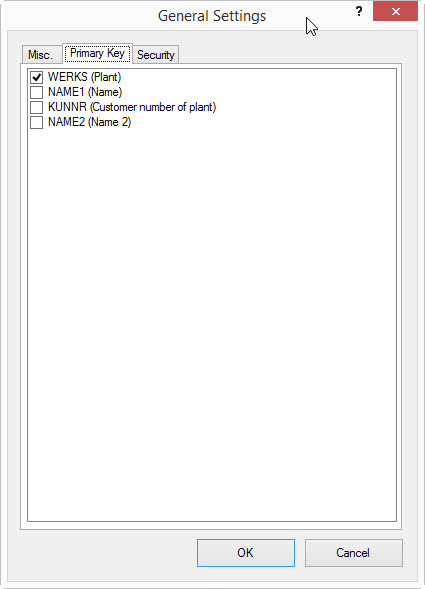
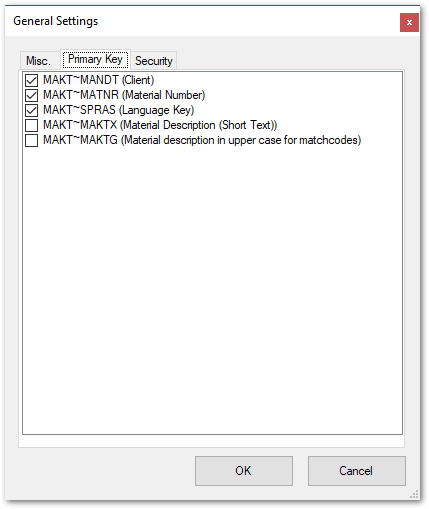
general settings

Changed region(s): [[0.0, 0.0, 1.0, 1.0]]

diff --git a/_includes/_content/en/xu-specific/advanced-techniques/general-settings.md b/_includes/_content/en/xu-specific/advanced-techniques/general-settings.md
@@ -1,24 +1,50 @@
-Each extraction dialog has the link *General Settings*, which provides general settings that are independent of the extraction type.
+General Settings are independent of the extraction type.
+### To open General Settings
+1. In the main window of the Designer, double-click an extraction.<br>
+The window "Define data source for [...]" opens.<br>
+Example:
+![General-Settings](/img/content/table/table_main-window_2.png){:class="img-responsive"}
 
-**Misc. tab**
+2. Within the opened window, click **[General Settings]**.<br>
+The window "General Settings" opens.
+
+
+### Misc. tab
+The miscellaneous tab consists of two subsections:
+- Options
+- Keywords
 
 ![General-Settings](/img/content/General-Settings.png){:class="img-responsive"}
 
-**Disable Buffer**<br>
-This setting disables the extractions buffering and overwrites the server settings BufferExtractionCount  and BufferLifespanMinutes.
+#### Options
+**Cache results (1)**<br>
 
-If the data is in very short time intervals (see server setting BufferLifespanMinutes) is requested, the data is delivered from the buffer. This increases the performance and limits the impact on the SAP system. If this behavior is not desired (for example, because the data must be always 100% up to date), the buffer must be explicitly turned off.
+{:.box-tip}
+**Note:** option only available in [pull destinations](../xu-destinations#pull-and-push-destinations) (e.g., PBI, Qlik etc.).
 
-With DeltaQ extractions buffering can only be used with update mode 'F'.
+Pull destinations often pull the data from SAP for several times. To decrease the SAP server load, you can select the **Cache results**, this way the pull destination pulls the data from cache and not from the SAP.
+This increases the performance and limits the impact on the SAP system. If this behavior is not desired (for example, because the data must be always 100% up to date), the cache option must be explicitly turned off.
 
-**Preview Mode**<br>
-If it is activated, only a small portion of data is extracted from SAP or (if that's not possible) sample data is generated instead.
+**Preview Mode (2)**<br>
+If preview mode is activated, only a small portion of data is extracted from SAP or, if extraction is not possible, sample data is generated instead.
 
-**Keywords**<br>
-You can assign one or more keywords (Tags) to an extraction. Within the designer you can use these keywords as a filter for the extraction.
+#### Keywords<br>
+One or more keywords (Tags) can be set to an extraction. 
+Keywords can be entered directly in the keyword field (3).
+Within the Designer you can use these keywords to filter  extractions. 
 
-**Primary Key Tab**<br>
-Select the primary key fields of the extraction. This is required for the merge operation.
+{:.box-tip}
+To display filter options, navigate to **[Extractions] > [Filter]** or press **[CTRL]+[F]**.
+ 
+### Primary Key tab<br>
+Table extractions inherit the primary keys from SAP. Other objects such as SAP Query, BW Cube etc. require manual setting of the primary keys.  
+![General-Settings-Primary-Key](/img/content/XU_table_Primary_key.png){:class="img-responsive"}
 
-**Security Tab**<br>
-The security tab is described in the chapter [access management](../security/access-management).
+Depicted example demonstrates the SAP object *MAKT* with it's primary key inherited from SAP in the general settings of the Designer. In this example the primary key consists of *MANDT*, *MATNR*, *SPRAS*. The demonstrated primary key is also taken over in the destination. 
+
+{:.box-note}
+**Note:** A defined primary key field in a table is a prerequisite for merging data. 
+
+
+### Security Tab**<br>
+The security tab is described in the section [access management](../security/access-management).

diff --git a/_includes/_content/en/xu-specific/xu-destinations/general/sql-commands.md b/_includes/_content/en/xu-specific/xu-destinations/general/sql-commands.md
@@ -6,7 +6,7 @@ Defines the action on the target database before the data is inserted into the t
 - *Drop & Create*: Remove table if available and create new table (default).
 - *Truncate Or Create*: Empty table if available, otherwise create.
 - *Create If Not Exists*: Create table if not available.
-- *Prepare Merge*: prepares the merge process and creates e.g. a temporary staging table. See section [Merging Data](./merging-data) for more details. 
+- *Prepare Merge*: prepares the merge process and creates e.g. a temporary staging table. For more information see section About Merging. 
 - *None*: no action
 - *Custom SQL*: Here you can define your own script. See the Custom SQL section below. 
 
@@ -24,23 +24,30 @@ Defines how the data is inserted into the target table.
 - *Fill merge staging table*: Insert records into the staging table.
 - *None*: no action.
 - *Custom SQL*: Here you can define your own script. See the Custom SQL section below.
-- *Merge (deprecated)*: This option is obsolete. Use the *Fill merge staging* table option instead. 
+- *Merge (deprecated)*: This option is obsolete. Please use the Fill merge staging table option and check the About Merging section. 
 
 #### Finalization
 
 Defines the action on the target database after the data has been successfully inserted into the target table.
-- *Finalize Merge*: Closes the merge process and deletes the temporary staging table, for example. 
+- *Finalize Merge*: Closes the merge process and deletes the temporary staging table, for example. For more information, see About Merging. 
 - *None*: no action (default).
 - *Custom SQL*: Here you can define your own script. See the Custom SQL section below.
 
+#### About Merging
+Merging ensures delta processing: new records are inserted into the database and / or existing records are updated. 
+See section [merging data](./)
+
 #### Custom SQL
 
-Here you can define your own SQL or script expressions. You can use existing SQL commands as templates. 
+Custom SQL option allows creating own SQL or script expressions. Existing SQL commands can be used as templates. 
 
-The following [link](../microsoft-sql-server/sql-server-custom-sql) provides an example of how to use predefined expressions. Please note that the custom SQL code is for SQL Server target environments. 
-```
-A syntactic adaptation of the code is necessary for other DB target environments!
-```
+See [Microsoft example](../microsoft-sql-server/sql-server-custom-sql) to understand how to use predefined expressions.
+
+{:.box-note}
+**Note:** the custom SQL code is used for SQL Server target environments. 
+A syntactic adaptation of the code is necessary for other DB target environments.
+
+See section [Custom SQL](https://help.theobald-software.com/en/xtract-universal/xu-destinations/microsoft-sql-server/sql-server-custom-sql) for more details.
 
 #### Templates
 

diff --git a/_includes/_content/en/xu-specific/xu-destinations/merge-data/db-merge-data.md b/_includes/_content/en/xu-specific/xu-destinations/merge-data/db-merge-data.md
@@ -1,9 +1,13 @@
 The following example depicts the update of the existing data records in a database by running an extraction to merge data, i.e. change value of a field or insert a new data row or update an existing one. 
 
+Prerequisite for merging is a table with existing data, in which new data should be merged.
+
+Ideally, the table with existing data is created in the first run with the corresponding **Preparation** option and filled with data with the **Row Processing** option *Insert*.
+
 {:.box-warning}
 **Warning! Faulty merge** <br>
 A primary key is a prerequisite for a merge command. If no primary key is set, the merge command runs into an error.
-Create an appropriate primary key in the [extraction settings](../../advanced-techniques/general-settings) to execute the merge command.
+Create an appropriate primary key in the [general settings](../../advanced-techniques/general-settings) to execute the merge command.
 
 ### Updating a value in SAP
 A field value in an SAP table is updated. With a merge command the updated value is written to the destination database table.<br>
@@ -11,8 +15,10 @@ A field value in an SAP table is updated. With a merge command the updated value
 
 The merge command ensures delta processing: new records are inserted into the database and / or existing records are updated. <br>
 
-
 ### Merge command in Xtract Universal
+The merge process is performed using a staging table and takes place in three steps.
+In the first step, a temporary table is created in which the data is inserted in the second step.
+In the third step, the temporary table is merged with the target table and then the temporary table is deleted.
 
 1. In the main window of the Designer, select the respective extraction and click **[Destination]**. The window "Destination Settings" opens.
 
@@ -23,7 +29,6 @@ The merge command ensures delta processing: new records are inserted into the da
 - **Finalization** to *Finalize Merge* to merge the staging table with the target table and then delete the staging table.
 ![Extraction-Specific-Settings-Merge-Makt](/img/content/xu/destination_data_merge.png){:class="img-responsive"}
 
-More information about the updated fields can be found in the SQL statement ([Custom SQL only](https://help.theobald-software.com/en/xtract-universal/xu-destinations/microsoft-sql-server/sql-server-custom-sql)). <br>
-
+More information about the updated fields can be found in the SQL statement ([Custom SQL only](https://help.theobald-software.com/en/xtract-universal/xu-destinations/microsoft-sql-server/sql-server-custom-sql).<br>
 It is possible to edit the SQL statement if necessary, e.g., to exclude certain columns from the update.<br>
 Fields that do not appear in the SQL statement are not affected by changes.
